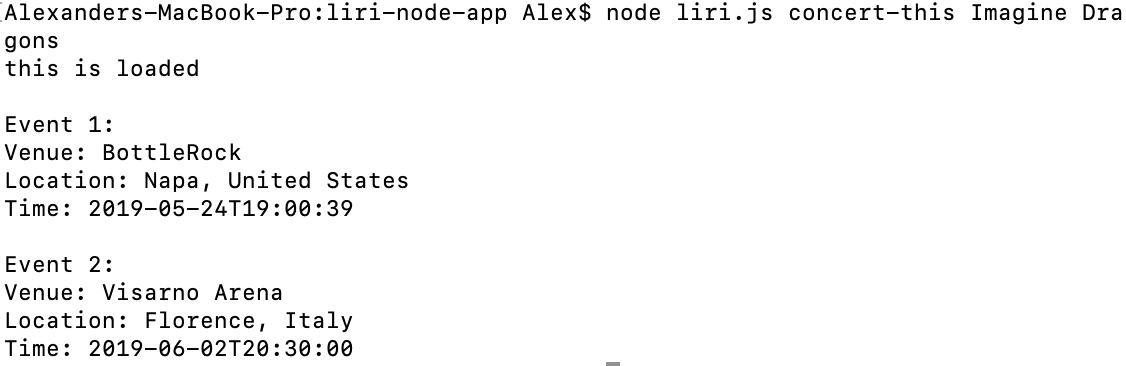
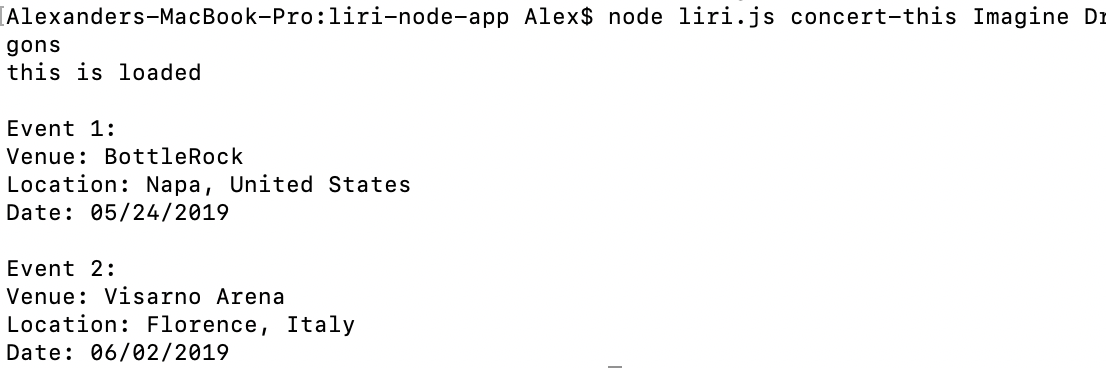
liri-node-app Complete

diff --git a/liri.js b/liri.js
@@ -1,10 +1,10 @@
-//Axios and Spotify npm package
+//Axios, Spotify, and Moment npm package
 require("dotenv").config();
 var keys = require("./keys.js");
 var Spotify = require("node-spotify-api");
 var spotify = new Spotify(keys.spotify);
 var axios = require("axios");
-
+var moment = require("moment");
 //fs is a core Node package for reading and writing files
 var fs = require("fs");
 var choice = process.argv[2];
@@ -28,7 +28,12 @@ switch (choice) {
               ", " +
               response.data[i].venue.country
           );
-          console.log("Time: " + response.data[i].datetime);
+          console.log(
+            "Date: " +
+              moment(response.data[i].datetime, "YYYY-MM-DDTHH:mm:ss").format(
+                "MM/DD/YYYY"
+              )
+          );
         }
       });
 
